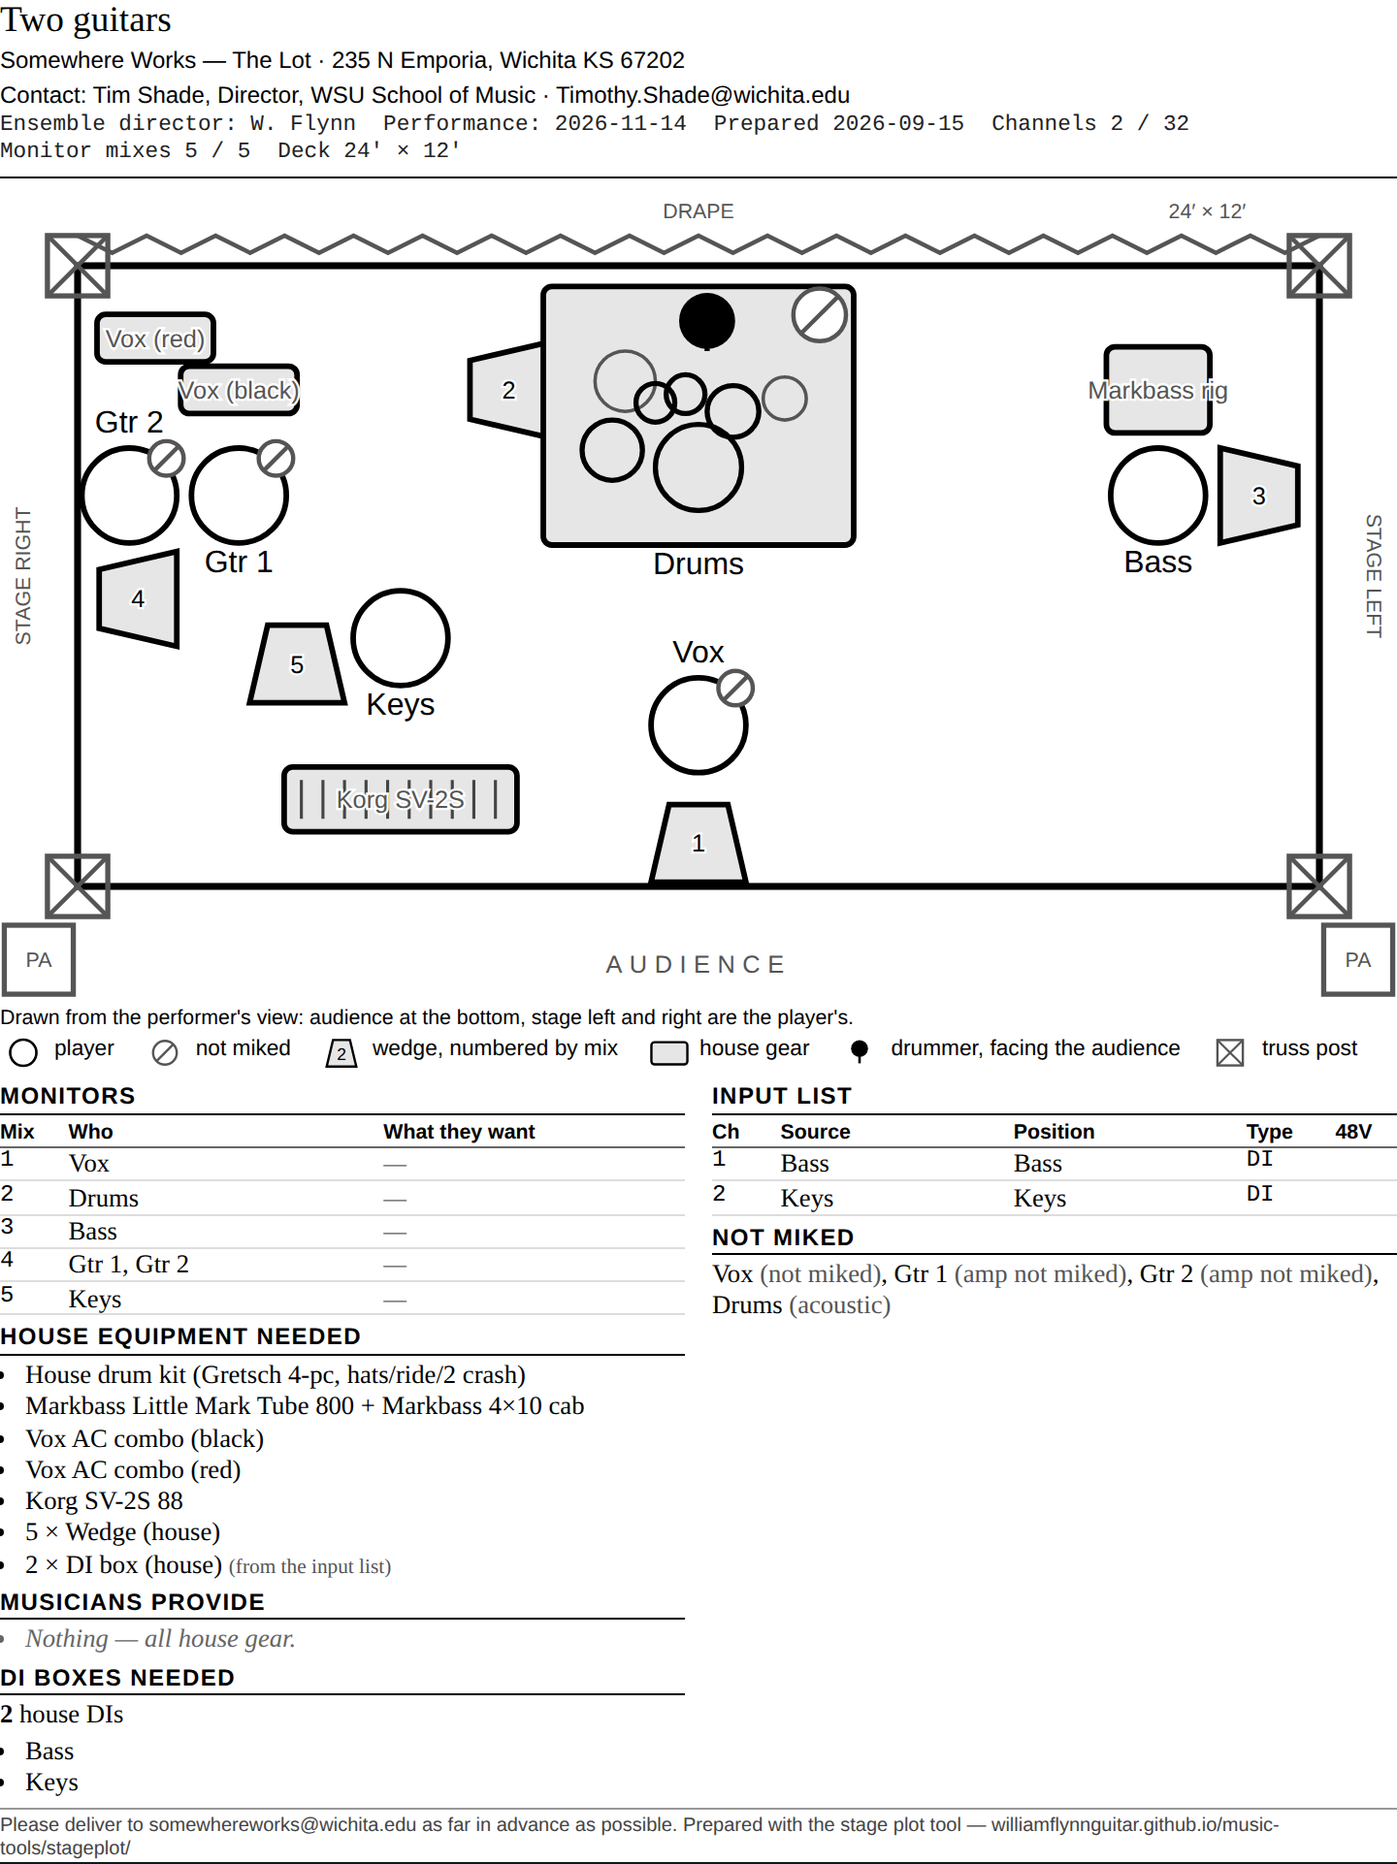
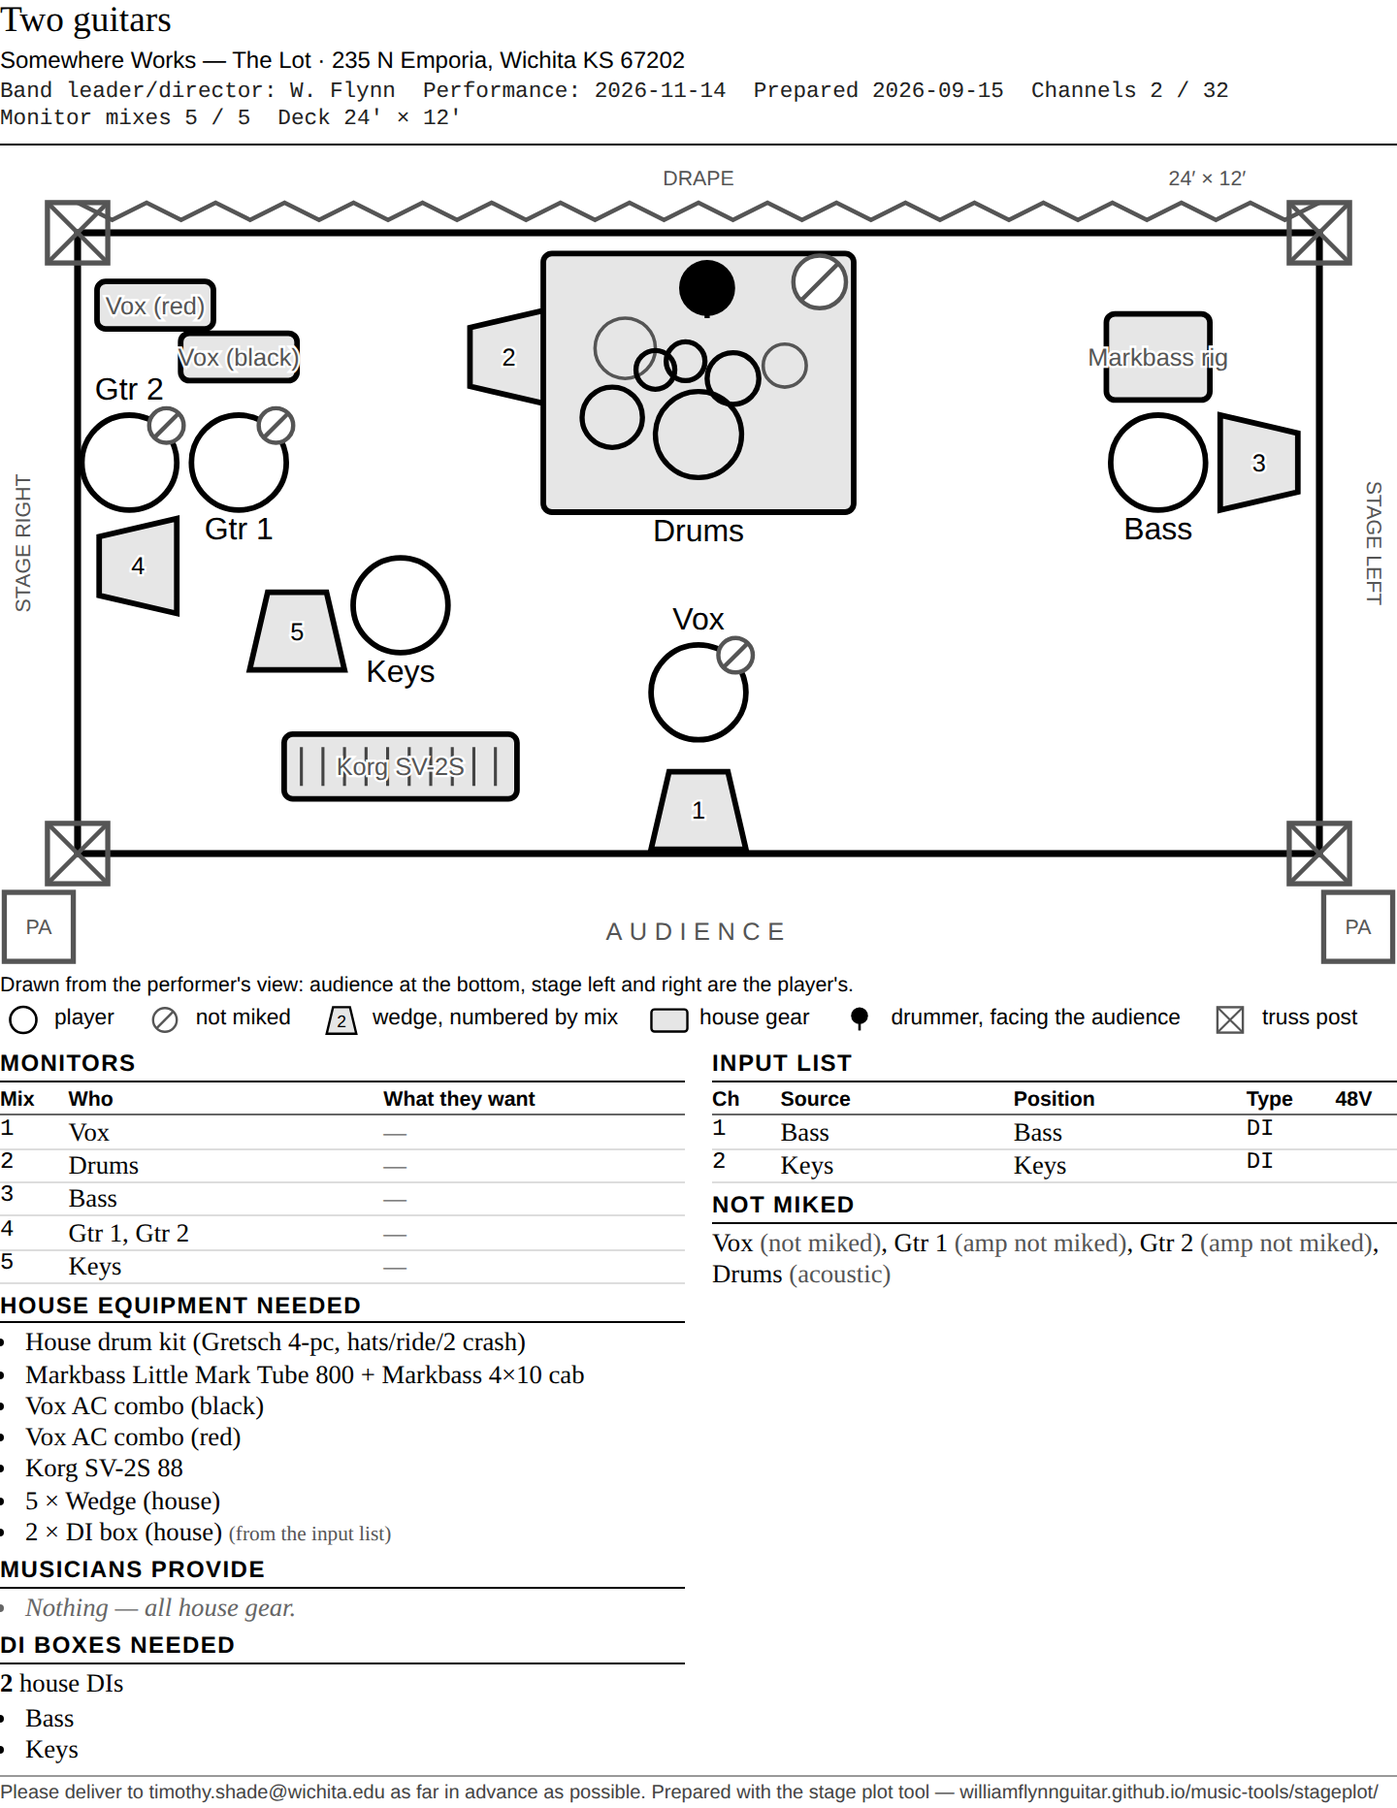
Stage Plot: the contact is the delivery line, the director is the band leader
The delivery line at the foot of every printed page now reads "Please
deliver to timothy.shade@wichita.edu as far in advance as possible", and
the Email button addresses the same place. That is the plot's one fixed
contact. The separate "Contact: Tim Shade, Director, WSU School of Music"
line under the ensemble name is gone — it read as though Tim led every
band, which William did not mean. PLOT_CONTACT and contactLine go with
it; VENUE.deliverTo is the single source and is no longer ASSUMED.

Plot.director stays at the top of the page, relabelled "Band
leader/director" in the Details tab, the meta row and the email text,
because acts from outside the School of Music load in here too.

Checks and print previews follow: 279 node checks, 25 print checks; the
tightest single-page plot now has 29px to spare.

Claude-Session: https://claude.ai/code/session_01R6Qj9hsdUuvvs5tjZoFZip

diff --git a/stageplot/index.html b/stageplot/index.html
@@ -142,7 +142,6 @@ svg.deck .hit:active{cursor:grabbing}
 .sheet .pagerule span{position:absolute;right:0;top:2px;font-family:var(--psans);font-size:7pt;color:#999}
 .sheet h1{font-size:14pt;font-weight:400;margin:0 0 2px;line-height:1.12}
 .sheet .subhead{font-family:var(--psans);font-size:9pt;margin:0 0 4px}
-.sheet .contact{font-family:var(--psans);font-size:9pt;margin:0 0 2px}
 .sheet .meta{font-family:var(--mono);font-size:8.5pt;color:#222;margin:0;display:flex;flex-wrap:wrap;gap:0 14px}
 .sheet .rule{border:0;border-top:1.25pt solid #000;margin:4px 0 5px}
 .sheet h2{font-family:var(--psans);font-size:9pt;font-weight:700;letter-spacing:.06em;text-transform:uppercase;margin:4px 0 2px;padding-bottom:1px;border-bottom:.75pt solid #000;break-after:avoid}
@@ -350,7 +349,7 @@ const VENUE = {
   name: "Somewhere Works — The Lot",
   shortName: "Somewhere Works",   // the short form of name, for prose
   address: "235 N Emporia, Wichita KS 67202",
-  deliverTo: "somewhereworks@wichita.edu",   // ASSUMED — confirm with tech
+  deliverTo: "timothy.shade@wichita.edu",    // William, 2026-09-15: every plot goes to Tim Shade; the mailto goes there too
   leadDays: null,                            // ASSUMED — lead time not confirmed; null prints "as far in advance as possible"
   deck: { widthFt: 24, depthFt: 12 },        // ASSUMED — tech is checking real dimensions
   monitorMixes: 5,                           // confirmed: 5 wedges, 5 mixes typical; extras possible via Shocker Studios
@@ -387,20 +386,6 @@ const VENUE = {
     audienceLabel: "AUDIENCE",
   }
 };
-
-/* ------------------------------------------------------------------ *
- * PLOT_CONTACT — printed on every plot and in every email text, and not
- * editable anywhere in the UI. The tech needs one person to call about
- * any plot that arrives from the School of Music, whoever built it; a
- * student-typed contact is the wrong answer to that. The ensemble's own
- * director is a separate, optional field (Plot.director).
- * ------------------------------------------------------------------ */
-const PLOT_CONTACT = {
-  name: "Tim Shade",
-  title: "Director, WSU School of Music",
-  email: "Timothy.Shade@wichita.edu"
-};
-const contactLine = () => PLOT_CONTACT.name + ", " + PLOT_CONTACT.title + " \u00b7 " + PLOT_CONTACT.email;
 
 /* ---- house backline by category ------------------------------------ *
  * A role asks for a KIND of house gear, not one named amp: two guitarists
@@ -1788,8 +1773,7 @@ function sheetHTML(p){
         byo = byoList(p), di = diSources(p), ch = channelCount(p), labels = positionLabels(p), H = [];
   H.push('<h1>' + esc(p.name || "Stage plot") + (p.showName ? ' <span style="font-size:11pt">— ' + esc(p.showName) + '</span>' : "") + '</h1>');
   H.push('<p class="subhead">' + esc(VENUE.name) + ' · ' + esc(VENUE.address) + '</p>');
-  H.push('<p class="contact">Contact: ' + esc(contactLine()) + '</p>');
-  H.push('<p class="meta">' + (p.director ? '<span>Ensemble director: ' + esc(p.director) + '</span>' : "") +
+  H.push('<p class="meta">' + (p.director ? '<span>Band leader/director: ' + esc(p.director) + '</span>' : "") +
     '<span>' + (p.date ? "Performance: " + esc(p.date) : "Performance: —") + '</span>' +
     '<span>Prepared ' + todayISO() + '</span><span>Channels ' + ch + " / " + VENUE.consoleChannels + '</span>' +
     '<span>Monitor mixes ' + p.wedges.length + " / " + VENUE.monitorMixes + '</span>' +
@@ -2096,12 +2080,10 @@ function renderPanel(p){
   }
   if (S.tab === "details"){
     H.push('<div class="fld"><label>Act / ensemble</label><input type="text" id="fEns"></div>' +
-      '<div class="fld"><label>Ensemble director</label><input type="text" id="fDir"></div>' +
+      '<div class="fld"><label>Band leader/director</label><input type="text" id="fDir"></div>' +
       '<div class="fld"><label>Show</label><input type="text" id="fShow"></div>' +
       '<div class="fld"><label>Performance date</label><input type="date" id="fDate"></div>' +
       '<div class="fld"><label>Notes for the tech</label><textarea id="fNotes"></textarea></div>' +
-      '<h3>Contact on every plot</h3><p class="note">' + esc(PLOT_CONTACT.name) + ' — ' + esc(PLOT_CONTACT.title) +
-      '<br>' + esc(PLOT_CONTACT.email) + '<br>Printed on every plot and in the email text. Not editable here.</p>' +
       '<h3>Deck (this plot)</h3><div class="insprow"><input type="text" id="fW" style="width:70px"> ft wide <input type="text" id="fD" style="width:70px"> ft deep</div>' +
       '<p class="note">New plots start at ' + VENUE.deck.widthFt + '′ × ' + VENUE.deck.depthFt + '′ (VENUE.deck). This plot keeps the size saved with it.</p>' +
       '<h3>Songs</h3>');
@@ -2422,8 +2404,7 @@ async function decodeHash(hash){
 function emailText(p){
   const mon = monitorTable(p), rows = channelRows(p), needs = houseNeeds(p), byo = byoList(p), di = diSources(p), L = [];
   L.push(p.name + (p.showName ? " — " + p.showName : ""), VENUE.name + ", " + VENUE.address);
-  L.push("Contact: " + contactLine());
-  if (p.director) L.push("Ensemble director: " + p.director);
+  if (p.director) L.push("Band leader/director: " + p.director);
   if (p.date) L.push("Performance: " + p.date);
   L.push("Channels " + channelCount(p) + "/" + VENUE.consoleChannels + "  ·  Monitor mixes " + p.wedges.length + "/" + VENUE.monitorMixes, "");
   L.push("MONITORS");

diff --git a/stageplot/check.js b/stageplot/check.js
@@ -21,7 +21,7 @@ const E = new Function(src.slice(A, B) + `; return { VENUE, DRAW, ROLES, LAYOUT,
   PKG_SETS, pkgSet, pkgDef, startPkgId, packageInputs, setPackage,
   inferPackage, notMiked, unmiked,
   addMic, removeMic, ownMics, micSummary, bigBandSeats, legendKeys,
-  PLOT_CONTACT, contactLine, BACKLINE_CATS, houseCat, backlineCat, refCat, objectRef,
+  BACKLINE_CATS, houseCat, backlineCat, refCat, objectRef,
   pickBackline, findBackline, settleBackline };`)();
 
 /* Boxes as the diagram actually draws them — the footprint plus, for a
@@ -635,18 +635,16 @@ for (const t of E.TEMPLATES){
   ok(!/S\.plots/.test(src.slice(A, B)), "the engine cannot see the other plots in the session, so nothing can cross-check them");
 }
 
-/* ---- 18. the fixed contact, and no mics with the house gear ---- */
+/* ---- 18. where the plot goes, who leads the band, and no mics with the house gear ---- */
 {
-  eq(E.PLOT_CONTACT.email, "Timothy.Shade@wichita.edu", "the plot contact is Tim Shade");
-  eq(E.contactLine(), "Tim Shade, Director, WSU School of Music · Timothy.Shade@wichita.edu", "the contact line reads in full");
-  eq((src.match(/const PLOT_CONTACT/g) || []).length, 1, "PLOT_CONTACT is declared once");
-  ok(!/PLOT_CONTACT\.\w+\s*=[^=]/.test(src), "nothing assigns to it");
-  ok(!/(bindText|value=|<input)[^\n]*PLOT_CONTACT/.test(src), "no input in the UI is bound to it");
-  ok(/class="contact">Contact: ' \+ esc\(contactLine\(\)\)/.test(src), "the printed page carries it under the show name");
-  ok(/L\.push\("Contact: " \+ contactLine\(\)\)/.test(src), "the email text carries it");
-  ok(/Ensemble director<\/label>/.test(src), "the Details tab calls p.director the ensemble director");
-  ok(/Ensemble director: ' \+ esc\(p\.director\)/.test(src) && !/"Director: \u2014"|Director: —/.test(src),
-     "…and the meta row prints it only when it is filled in");
+  eq(E.VENUE.deliverTo, "timothy.shade@wichita.edu", "every plot is delivered to Tim Shade");
+  ok(!/ASSUMED[^\n]*$/m.test(src.split("\n").find(l => /deliverTo:/.test(l)) || ""), "…and that is no longer marked ASSUMED");
+  ok(!/PLOT_CONTACT|contactLine/.test(src), "no separate fixed contact: the delivery line is the contact");
+  ok(/Band leader\/director<\/label>/.test(src), "the Details tab calls p.director the band leader/director");
+  ok(/Band leader\/director: ' \+ esc\(p\.director\)/.test(src) && !/"Director: \u2014"|Director: —|Ensemble director/.test(src),
+     "…the meta row prints it under that name, and only when it is filled in");
+  ok(/L\.push\("Band leader\/director: " \+ p\.director\)/.test(src), "…and so does the email text");
+  ok(/"mailto:" \+ VENUE\.deliverTo/.test(src), "the Email button addresses the same place the page says to deliver to");
   // the mics in the photos stay in the rehearsal rooms
   for (const h of E.VENUE.house.filter(h => h.bcat)){
     ok(!h.inputs, h.label + " brings no inputs");

diff --git a/stageplot/print-check.js b/stageplot/print-check.js
@@ -37,10 +37,10 @@ const ok = (cond, m) => { checks++; if (!cond){ fails++; console.log("FAIL " + m
   await page.waitForFunction(() => typeof window.sheetHTML === "function" && typeof window.makeFromTemplate === "function");
   const v1 = JSON.parse(fs.readFileSync(path.join(__dirname, "samples", "v1", "example-v1.json"), "utf8"));
 
-  /* Page counts measured on main before the contact line went in (2026-09-15),
-     so a plot is allowed to stay where it was and nothing more. The templates
-     all sat around 900px of the 960 a page holds; the migrated v1 example was
-     already two pages at 1109px, because it is a fully miked band with names. */
+  /* Page counts measured on main on 2026-09-15, so a plot is allowed to stay
+     where it was and nothing more. The templates all sat around 900px of the
+     960 a page holds; the migrated v1 example was already two pages at 1109px,
+     because it is a fully miked band with names. */
   const WANT = [
     { name:"Jazz combo",            was:897,  maxPages:1 },
     { name:"Big band (17)",         was:913,  maxPages:1 },
@@ -72,8 +72,8 @@ const ok = (cond, m) => { checks++; if (!cond){ fails++; console.log("FAIL " + m
       const p = build[name]();
       sheet.innerHTML = sheetHTML(p);
       out.push({ name, h:sheet.scrollHeight, pages:Math.max(1, Math.ceil((sheet.scrollHeight - 4) / (10 * 96))),
-                 sheetHasContact:sheet.textContent.includes(PLOT_CONTACT.email),
-                 mailHasContact:emailText(p).includes(PLOT_CONTACT.email) });
+                 deliverLine:/Please deliver to timothy\.shade@wichita\.edu as far in advance as possible\./.test(sheet.textContent),
+                 noContactLine:!/Contact:|Ensemble director/.test(sheet.textContent + emailText(p)) });
       sheet.innerHTML = "";
     }
     return out;
@@ -83,8 +83,8 @@ const ok = (cond, m) => { checks++; if (!cond){ fails++; console.log("FAIL " + m
     const want = WANT.find(w => w.name === r.name) || { maxPages:1 };
     ok(r.pages <= want.maxPages, r.name + " prints on " + want.maxPages + " page" + (want.maxPages > 1 ? "s" : "") +
        " as it did before (" + r.h + "px of " + PAGE_H + (want.was ? ", was " + want.was + "px" : "") + ", " + r.pages + " pages)");
-    ok(r.sheetHasContact, r.name + ": the printed page carries the fixed contact");
-    ok(r.mailHasContact, r.name + ": the email text carries the fixed contact");
+    ok(r.deliverLine, r.name + ": the page ends with the delivery line to Tim Shade");
+    ok(r.noContactLine, r.name + ": no contact line at the top, no \"Ensemble director\"");
   }
   const singles = plots.filter(r => (WANT.find(w => w.name === r.name) || {}).maxPages === 1);
   const tallest = singles.reduce((a, b) => (a.h > b.h ? a : b), singles[0]);

diff --git a/stageplot/CLAUDE.md b/stageplot/CLAUDE.md
@@ -77,7 +77,7 @@ counts and the deck are still placeholders.
 | Value | Status | Notes |
 |---|---|---|
 | `deck: {widthFt:24, depthFt:12}` | **ASSUMED** | tech is measuring. See "Changing the deck" |
-| `deliverTo: somewhereworks@wichita.edu` | **ASSUMED** | confirm with the tech. Not the same thing as `PLOT_CONTACT` |
+| `deliverTo: timothy.shade@wichita.edu` | confirmed | William, 2026-09-15. Prints in the delivery line at the foot of every page, and the Email button addresses it. This is the plot's one fixed contact |
 | `leadDays: null` | **ASSUMED** | null prints "as far in advance as possible"; a number prints "Please deliver by <date>" counted back from the performance date |
 | `kb1` — Korg SV-2S 88 | confirmed | ≈54″ × 15″ |
 | `kb2` — Nord Stage 4 88 | confirmed | ≈51″ × 14″ |
@@ -139,39 +139,21 @@ old plots come out exactly as they did.
   cannot go wrong by accident: `warnings()` lives in the engine block, which
   has no access to `S.plots` at all.
 
-## PLOT_CONTACT — one contact on every plot
+## Where a plot goes, and who leads the band
 
-```js
-const PLOT_CONTACT = { name:"Tim Shade", title:"Director, WSU School of Music",
-                       email:"Timothy.Shade@wichita.edu" };
-```
+Every plot is delivered to Tim Shade: the foot of every printed page reads
+*Please deliver to timothy.shade@wichita.edu as far in advance as possible*
+(`deliverLine()`, off `VENUE.deliverTo` and `leadDays`), and the Email button
+opens a `mailto:` to the same address. That line is the plot's fixed contact.
+There is deliberately **no separate contact block at the top of the page** —
+the first cut of this (2026-09-15) printed *Contact: Tim Shade, Director, WSU
+School of Music* under the ensemble name, which read as though Tim led every
+band. William had it removed the same day.
 
-Printed under the ensemble name on every page and at the top of the email
-text, and **not editable anywhere in the UI**. The tech needs one person to
-call about any plot that arrives from the School of Music, whoever built it,
-and a student-typed contact is the wrong answer to that question. `p.director`
-survives as a separate optional field — relabelled **Ensemble director**, in
-the Details tab and in the meta row, and omitted from the meta row rather than
-printed as a dash when it is empty.
-
-`VENUE.deliverTo` is a different thing and did not change: where the plot is
-sent, not who to ring about it.
-
-Confirmed: 5 wedges / 5 mixes typical with extras possibly from Shocker
-Studios, a 32-channel console, monitors shared for most groups, everything on
-the deck movable, no acoustic piano.
-
-`shortName` is "Somewhere Works" — the short form of `name`, which carries the
-room ("Somewhere Works — The Lot"). It appears in the warning banners, the
-Wedges tab and the email text. The printed house-equipment list deliberately
-does *not* use it: an over-count reads "— house has 8", because that column is
-narrow, the bullets already carry long verbatim model names, and the tech cares
-that the house has 8 rather than what the house is called. Spelling it out
-there wrapped bullets and pushed Group B onto a second page.
-
-Download filenames keep the `SW-plot-…` / `SW-showcase-…` prefixes: nothing
-parses them, they sort together in a Downloads folder, and renaming would only
-affect new saves.
+`p.director` is the **band leader/director** — that wording, in the Details
+tab, the meta row and the email text, because acts from outside the School of
+Music load in here too and "ensemble director" is a school word. It is
+optional, and the meta row omits it rather than printing a dash.
 
 ### Changing the deck
 
@@ -565,7 +547,7 @@ New in v2:
    32-channel console, so it raises no channel warning.
 ## Checks
 
-`node check.js` — 337 assertions: the role library, every template (builds,
+`node check.js` — 335 assertions: the role library, every template (builds,
 fits, deterministic, no two footprints in one place), the big band with no
 names, building from counts, channel order and freezing, names on/off, bulk
 name parsing, doubles and shared chairs, a custom role, the layout engine's
@@ -574,25 +556,24 @@ pinning and re-layout, deck re-layout, changeover, the v1 migration against
 backline by category (two guitarists on two amps, five on an amber over-count
 naming 4, Korg and Nord, an organ on the Nord, a swap surviving re-layout, an
 old doubled `gtramp1` settling on load, two plots sharing an amp in silence),
-the fixed contact and that nothing in the UI edits it, no mics on any house
-item, and no storage APIs or student names in `index.html`.
+the delivery address and the band leader/director wording, no mics on any
+house item, and no storage APIs or student names in `index.html`.
 
 `node print-check.js` measures the thing node cannot see: the printed page is
 paginated by *rendered height*, so it drives a headless Chromium through
 Playwright, renders `sheetHTML()` for every template and for the migrated v1
 fixture, and fails if a plot that fitted one page before now runs to two. It
-also confirms the fixed contact is on every page and in every email text.
+also confirms the delivery line to Tim Shade ends every page.
 `check.js` runs it and reports what it found; with no Playwright on the
 machine it exits 2 and check.js says it skipped, the way the local samples do.
 `node print-check.js --shots <dir>` writes the same pages out as PNGs.
 
 **Watch the bottom of the page.** A jazz combo with two guitarists and a long
-director name now measures 960px of the 960px a US Letter page holds — it
-still prints on one page, with nothing to spare. Naming the real amps costs a
-bullet per amp in the house-equipment list, so a band with four guitarists and
-two keyboard players runs to a second page where it used to fit one. That is
-the arithmetic, not a bug; if it starts to bite, the house-equipment column is
-where the room is.
+director name measures 931px of the 960px a US Letter page holds. Naming the
+real amps costs a bullet per amp in the house-equipment list, so a band with
+four guitarists and two keyboard players can run to a second page where it
+used to fit one. That is the arithmetic, not a bug; if it starts to bite, the
+house-equipment column is where the room is.
 
 The migration section always checks `samples/v1/example-v1.json` against
 `example-expected.json` (a golden file). When the real rosters are on the
